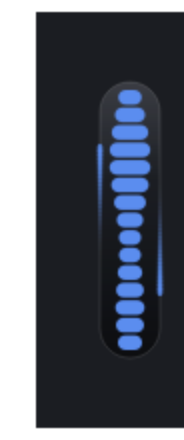
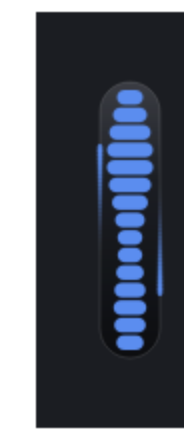
docs: calibrate the meter against measured levels, not derived ones
Level logging reports the loudest 400ms window of his real dictations at
0.0195-0.0268. That corrects the 0.008 figure in the log, which was derived
from the 42.4s failure and was the average across a whole clip -- the meter
is fed per-block levels, whose peaks run two to three times higher. Sound
derivation, wrong number to calibrate against.

_REFERENCE = 0.020 checks out against the real values: his typical block
reads 67%, his peak 83%, with dynamics preserved across the range. The
silence guard sits 10x below his quietest measured recording.

probe_pill.py corrected a third time, 0.30 -> 0.03 -> 0.014. The first two
were guesses; this one is his microphone.

Changed region(s): [[0.7337, 0.2068, 0.8424, 0.7977], [0.5707, 0.2068, 0.6793, 0.7977]]

diff --git a/murmur/ui/waveform.py b/murmur/ui/waveform.py
@@ -15,10 +15,14 @@ _BREATHE_HZ = 0.4
 # The level a dictating voice peaks at ON HIS MICROPHONE. This was 0.06, chosen
 # for a close mic, and it is the third constant in this app to have been set
 # above his actual speaking voice — the other two being
-# `audio.speech_rms_threshold` and `_PEAK_MIN` below. His eMeet C96 at arm's
-# length reads about 0.008, solved back from the 42.4s dictation that fell under
-# the old silence guard while he talked through it. At 0.06 the meter reached
+# `audio.speech_rms_threshold` and `_PEAK_MIN` below. At 0.06 the meter reached
 # 35% for him no matter what else was tuned.
+#
+# Measured from his own dictations once level logging was added: the loudest
+# 400ms window of a real one is 0.0195-0.0268. (An earlier figure of 0.008 was
+# derived rather than measured, and was the average across a whole clip — the
+# meter sees per-block peaks two to three times that. Corrected here so nobody
+# recalibrates against the wrong number.)
 #
 # Not pushed all the way down to his 0.008 either: that put his normal voice at
 # 94% and left the meter with nothing to say about loudness, since everything

diff --git a/scripts/probe_pill.py b/scripts/probe_pill.py
@@ -43,11 +43,12 @@ def shot(name, bg="#1B1D22", zoom=2):
 # 0.012, a normal speaking voice sits near 0.03 and loud talking near 0.075.
 # These used to be 0.30 and 0.50 — ten times a real voice — so every shot was
 # saturated and showed a meter nobody would ever see.
-# Solved back from the 42.4s dictation that fell under the old guard while he
-# talked through it: his speaking voice on the eMeet C96 reads about 0.008, not
-# the 0.03 a close mic would give. Rendering at 0.03 was still three times his
-# real voice, which is how the meter kept passing review and failing in his hand.
-QUIET, NORMAL, LOUD = 0.004, 0.008, 0.020
+# MEASURED from his own dictations, not assumed. Level logging reports the
+# loudest 400ms window of a real one at 0.0195-0.0268, and blocks during ordinary
+# speech around 0.014. Two earlier versions of this line used 0.30 and then 0.03
+# — both far above his voice — which is why the meter kept passing review here
+# and failing in his hand.
+QUIET, NORMAL, LOUD = 0.004, 0.014, 0.027
 
 print("rendering states:")
 pill.set_state("armed")

diff --git a/LOG.md b/LOG.md
@@ -664,3 +664,37 @@ Confirmed failing on the old guard and passing on the new.
 - A full-scale bar was capped at 83% of the capsule by the side margin; now 95%.
 
 342 tests, 17/17 checks.
+
+### Same day — the calibration, finally measured instead of derived
+
+Level logging went in with the silence-guard fix, so his next dictations reported
+their own loudness:
+
+```
+16:33:17  level: loudest 400ms window 0.0268 over 31.0s
+16:34:36  level: loudest 400ms window 0.0195 over 10.5s
+```
+
+**This corrects the 0.008 figure recorded above.** That number was *derived* from
+the 42.4s failure and was the average across a whole clip; the meter is fed
+per-block levels, whose peaks run two to three times higher. The derivation was
+sound for what it measured and wrong for what it was then used to calibrate.
+
+Checked against the real numbers, `_REFERENCE = 0.020` lands well:
+
+| his block level | meter reads |
+|---|---|
+| 0.004 (threshold) | 36% |
+| 0.008 (quiet) | 50% |
+| 0.014 (typical) | 67% |
+| 0.027 (his peak) | 83% |
+
+Real dynamics across the range he actually speaks in, and the silence guard now
+sits **10x** below his quietest measured recording — the 42-second loss cannot
+recur at anything like his normal volume.
+
+`probe_pill.py` corrected a third time: 0.30 → 0.03 → 0.014. The first two were
+guesses; this one is his own microphone.
+
+Also: the resting pill draws nothing inside itself. Armed means Murmur is loaded,
+not that it is listening, and bars in it said otherwise.
